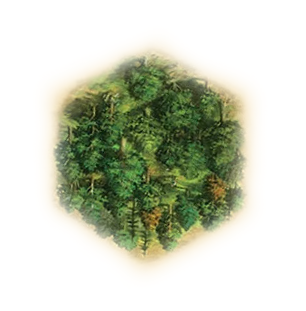
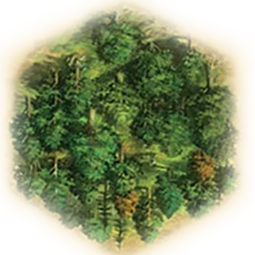
Cleaned up BoardController, resized all hexes to be 255 by 255 with as little white space as possible. also made a small adjustment to the loop for placing hexes

diff --git a/src/Universal/BoardController.java b/src/Universal/BoardController.java
@@ -31,26 +31,15 @@ public class BoardController {
 
         CatanGUI gui = view.getForm();
 
-
-
-        BufferedImage BuildingCardImage = null;
-
-
-        try {
-            BuildingCardImage = ImageIO.read((new File("./CatanPNGs/BuildingCard.png")));
-
-        } catch (IOException e) {
-            throw new RuntimeException(e);
-        }
-
+        //placing Building Card in correct Spot
+        //TODO resize this building card
         PlacePNG(gui.getBuildingCardPanel(),"./CatanPNGs/BuildingCard.png",100,100,0,0);
 
 
-        //JLabel BuildingCardLabel = new JLabel(new ImageIcon(BuildingCardImage));
-        //gui.getBuildingCardPanel().add(BuildingCardLabel);
-
         gui.getBoardPanel().setLayout(null);
 
+        //Loops Though hMap and places all the hexes in the correct spaces
+        //TODO Verify the i and j values for this loop
         double i = 1.15;
         double j = 1;
         for( Hexagon[] temp : model.hMap) {
@@ -60,70 +49,16 @@ public class BoardController {
                     continue;
                 }
                 PlacePNG(gui.getBoardPanel(), hex.getResourceType().getHexFilePath(), 100, 100, (int)(i * 100), (int)(j * 100));
-                System.out.println(hex.getResourceType().getHexFilePath());
                 i++;
             }
             i-=7.5;
-            j+=.80;
+            j+=.85;
         }
+
+        // placing in the background last because null layout
         PlacePNG(gui.getBoardPanel(),"./CatanPNGs/PlainBoard.png",625,525,0,0);
-/*
-        gui.getBoardPanel().setLayout(null);
-        JLabel BrickHexLabel = new JLabel(BrickHexIcon);
-        gui.getBoardPanel().add(BrickHexLabel);
-        BrickHexLabel.setBounds(200,200,100,100);
 
-        BrickHexLabel = new JLabel(BrickHexIcon);
-        gui.getBoardPanel().add(BrickHexLabel);
-        BrickHexLabel.setBounds(300,200,100,100);
-        BrickHexLabel = new JLabel(BrickHexIcon);
-        gui.getBoardPanel().add(BrickHexLabel);
-        BrickHexLabel.setBounds(400,200,100,100);
-
-       // gui.getBoardPanel().add(BoardImageLabel);
-       // BoardImageLabel.setBounds(0,0,525,625);
-
-
-
-            /*
-        GridBagConstraints gbc = new GridBagConstraints();
-       // gbc.anchor = GridBagConstraints.CENTER;
-        gbc.fill = GridBagConstraints.NONE;
-        gbc.gridwidth=21;
-        gbc.gridheight = 25;
-        gbc.gridx = 0;
-        gbc.gridy = 0;
-        //gbc.weightx = 1;
-        JPanel aaa = new JPanel();
-        aaa.add(BoardImageLabel);
-        gui.getBoardPanel().add(aaa, gbc);
-        //gui.getBoardPanel().add(BoardImageLabel, gbc);
-
-
-        //gbc.anchor = GridBagConstraints.CENTER;
-        gbc.fill = GridBagConstraints.NONE;
-        gbc.gridwidth=4;
-        gbc.gridheight = 4;
-        gbc.gridx = 25;
-        gbc.gridy = 25;
-        //gbc.weightx = 1;
-        JPanel zeroZero = new JPanel();
-        zeroZero.add(BrickHexLabel);
-        gui.getBoardPanel().add(zeroZero, gbc);
-
-
-        gbc.fill = GridBagConstraints.VERTICAL;
-        gbc.gridwidth=1;
-        gbc.gridheight = 14; // Actually 15
-        gbc.gridx = 0;
-        gbc.gridy = 1;
-       //gbc.weightx = 1;
-        JLabel test2 = new JLabel("A");
-        gui.getBoardPanel().add(test2, gbc);
-
-            */
         view.pack();
-
         view.setSize(840,715);
 
         //All the hexagons
@@ -148,7 +83,9 @@ public class BoardController {
         this.otherPlayers = otherPlayers;
         rollDiceAndResource();
     }
+
     //public void lavel
+
     private void rollDiceAndResource() {
         int number = model.dice.rollDice();
         System.out.print(number);
@@ -176,16 +113,10 @@ public class BoardController {
         takeTurn(model.getCurrentPlayer(), new ArrayList<>(model.players.subList(1,model.players.size())));
 
     }
-    public JLabel makeImage(String file,int height, int width){
-        BufferedImage tempImage = null;
-        try {
-            tempImage = ImageIO.read(new File(file));
-        } catch (IOException e) {
-            throw new RuntimeException(e);
-        }
 
-        return (new JLabel(new ImageIcon(new ImageIcon(tempImage).getImage().getScaledInstance(width, height, Image.SCALE_DEFAULT))));
-    }
+    //PlacePNG take a .png file, turns it into a Buffered Image, then turns the Buffered image into a ImageIcon,
+    // then resizes the ImageIcon, then turns the resized ImageIcon into a JLabel, Then adds the JLabel to the desired Panel,
+    //THEN it sets the bounds on said Label. All in like 8 lines. Thank you, Good night.
     public void PlacePNG(JPanel panel, String file, int height, int width, int gridx, int gridy){
         BufferedImage tempImage = null;
         try {
